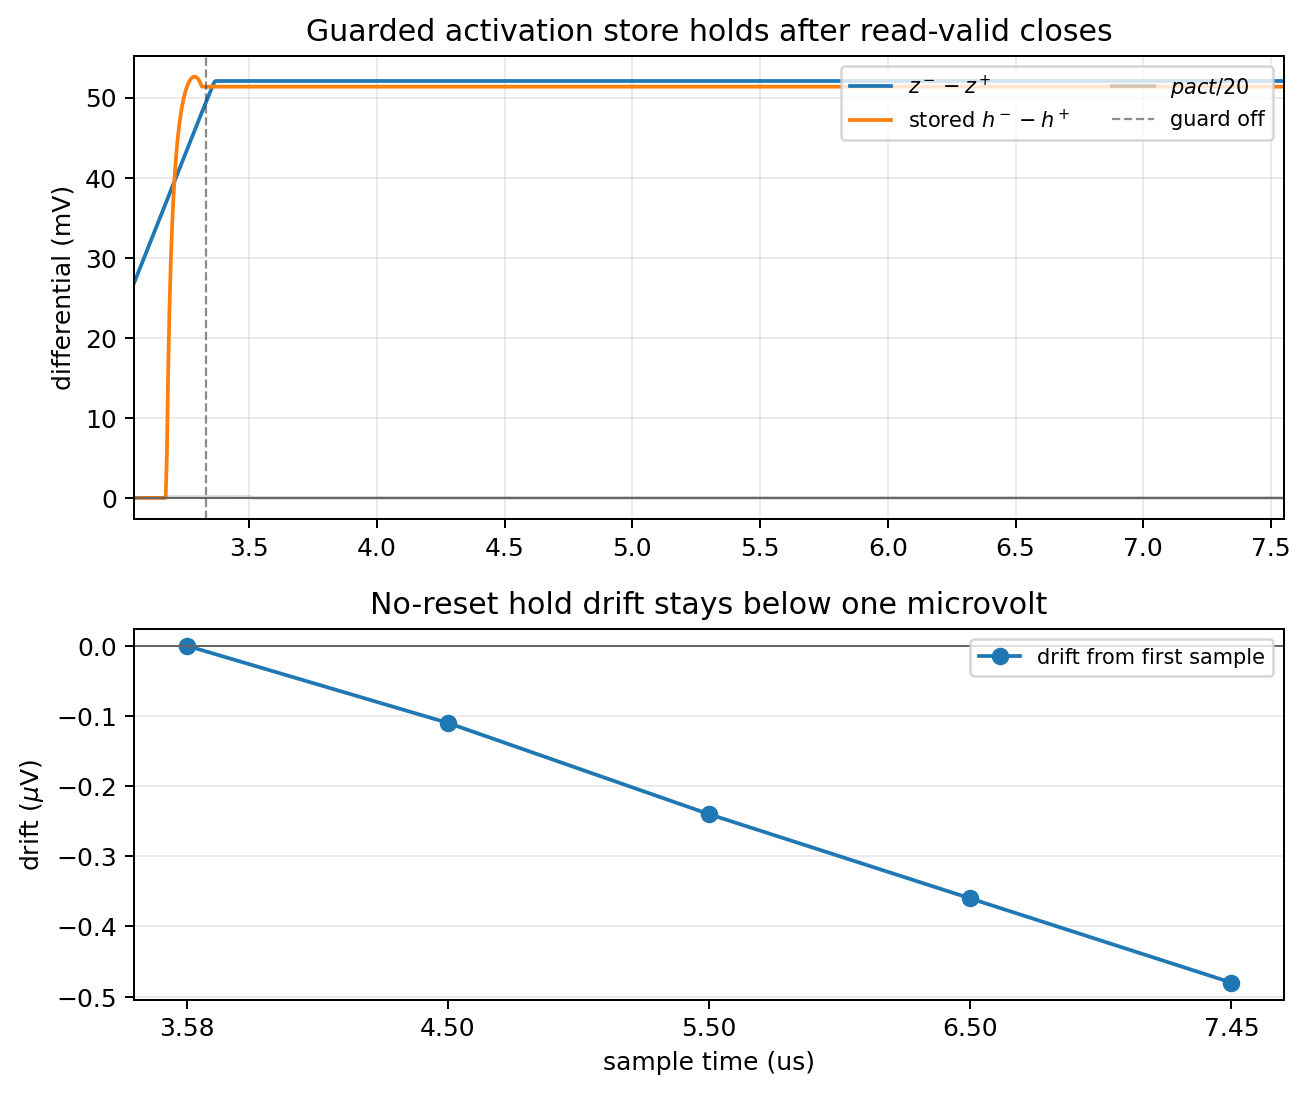
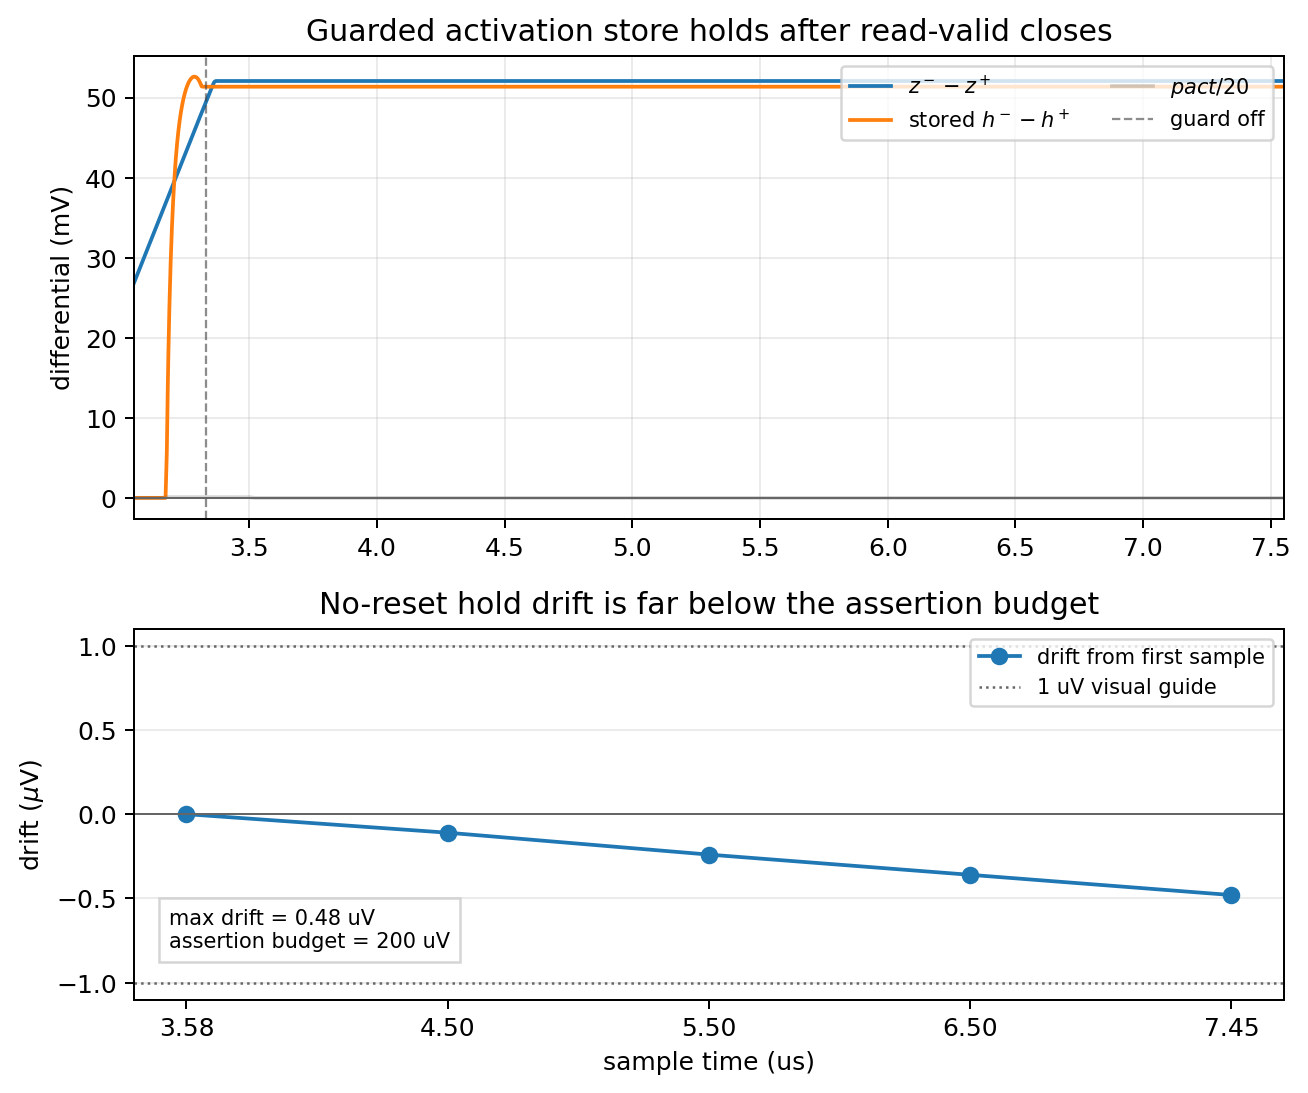
Annotate guarded hold drift budgets

diff --git a/spice/run_mos_cell_characterization.py b/spice/run_mos_cell_characterization.py
@@ -12959,11 +12959,23 @@ quit
     hold_x = np.arange(len(hold_sample_times))
     hold_axes[1].plot(hold_x, 1e6 * hold_drift, "o-", label="drift from first sample")
     hold_axes[1].axhline(0, color="0.4", linewidth=0.8)
+    hold_axes[1].axhline(1.0, color="0.4", linestyle=":", linewidth=1.0, label="1 uV visual guide")
+    hold_axes[1].axhline(-1.0, color="0.4", linestyle=":", linewidth=1.0)
+    hold_axes[1].text(
+        0.03,
+        0.14,
+        f"max drift = {1e6 * np.max(np.abs(hold_drift)):.2f} uV\n"
+        "assertion budget = 200 uV",
+        transform=hold_axes[1].transAxes,
+        fontsize="small",
+        bbox={"facecolor": "white", "alpha": 0.82, "edgecolor": "0.8"},
+    )
+    hold_axes[1].set_ylim(-1.1, 1.1)
     hold_axes[1].set_xticks(hold_x)
     hold_axes[1].set_xticklabels(hold_sample_labels)
     hold_axes[1].set_xlabel("sample time (us)")
     hold_axes[1].set_ylabel("drift ($\\mu$V)")
-    hold_axes[1].set_title("No-reset hold drift stays below one microvolt")
+    hold_axes[1].set_title("No-reset hold drift is far below the assertion budget")
     hold_axes[1].grid(True, axis="y", alpha=0.25)
     hold_axes[1].legend(loc="upper right", fontsize="small")
     hold_fig.tight_layout()
@@ -12987,13 +12999,25 @@ quit
     guard_off_x = np.arange(len(guard_off_sample_times))
     guard_off_axes[1].plot(guard_off_x, 1e6 * guard_off_drift, "o-", label="stored activation drift")
     guard_off_axes[1].axhline(0, color="0.4", linewidth=0.8)
+    guard_off_axes[1].axhline(1.0, color="0.4", linestyle=":", linewidth=1.0, label="1 uV visual guide")
+    guard_off_axes[1].axhline(-1.0, color="0.4", linestyle=":", linewidth=1.0)
+    guard_off_axes[1].text(
+        0.03,
+        0.14,
+        f"max drift = {1e6 * np.max(np.abs(guard_off_drift)):.2f} uV\n"
+        "assertion budget = 500 uV",
+        transform=guard_off_axes[1].transAxes,
+        fontsize="small",
+        bbox={"facecolor": "white", "alpha": 0.82, "edgecolor": "0.8"},
+    )
+    guard_off_axes[1].set_ylim(-1.1, 1.1)
     guard_off_axes[1].set_xticks(guard_off_x)
     guard_off_axes[1].set_xticklabels(guard_off_sample_labels)
     guard_off_axes[1].set_xlabel("sample time (us)")
     guard_off_axes[1].set_ylabel("drift ($\\mu$V)")
-    guard_off_axes[1].set_title("Pact-only, guard-only, and read pulses leave the held value unchanged")
+    guard_off_axes[1].set_title("Off-state control toggles stay far below the drift budget")
     guard_off_axes[1].grid(True, axis="y", alpha=0.25)
-    guard_off_axes[1].legend(loc="lower right", fontsize="small")
+    guard_off_axes[1].legend(loc="upper right", fontsize="small")
     guard_off_fig.tight_layout()
     save_plot(guard_off_fig, "mos_hidden_writer_restored_gate_hybrid_update_forward_guard_off_isolation_ngspice")
 

diff --git a/engineering_log.md b/engineering_log.md
@@ -2,6 +2,17 @@
 
 ## 2026-05-25
 
+- Family-completed the guarded hold drift display for the positive hold and
+  off-isolation cases.  The `guard_hold` assertion budget is \(200\,\mu\)V and
+  the `guard_off_isolation` budget is \(500\,\mu\)V, but the rendered plots
+  only showed sub-\(\mu\)V drift without those budgets.  The regenerated
+  `mos_hidden_writer_restored_gate_hybrid_update_forward_guard_hold_ngspice`
+  plot now labels the measured maximum drift as \(0.48\,\mu\)V and the
+  assertion budget as \(200\,\mu\)V.  The regenerated
+  `mos_hidden_writer_restored_gate_hybrid_update_forward_guard_off_isolation_ngspice`
+  plot labels the measured maximum drift as \(0.49\,\mu\)V and the budget as
+  \(500\,\mu\)V.  Both use a \(\pm1\,\mu\)V visual guide so the actual
+  drift remains readable while the much larger assertion budget is explicit.
 - Fixed the guarded signed-hold plot's mixed-unit ambiguity.  The underlying
   ngspice assertions require positive and negative guarded activation holds to
   mirror within \(0.2\) mV and each held sign to drift less than \(0.2\) mV;
